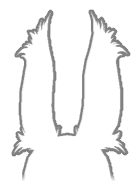
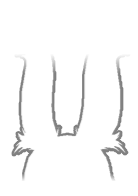
Fixed viera ears not fitting into window correctly, and cutting off the jaw bone

Changed region(s): [[0.6087, 0.0306, 0.9565, 0.3673], [0.087, 0.0306, 0.4058, 0.3673]]

diff --git a/Anamnesis/Posing/Views/PoseGUIView.xaml b/Anamnesis/Posing/Views/PoseGUIView.xaml
@@ -157,7 +157,7 @@
 				</Grid.RowDefinitions>
 
 				<!-- Viera Ears 01 -->
-				<Viewbox Grid.Row="0" Visibility="{Binding IsVieraEars01, Converter={StaticResource B2V}, FallbackValue=Collapsed}" Height="110">
+				<Viewbox Grid.Row="0" Visibility="{Binding IsVieraEars01, Converter={StaticResource B2V}, FallbackValue=Collapsed}" Height="120" Margin="0, -20, 0, -20">
 					<Canvas Width="138" Height="196">
 						<Image Canvas.Left="0" Canvas.Top="0" Width="138" Height="196" Source="../../Assets/PoseCharacterVieraEars01Background.png" Opacity="0.15" Stretch="Uniform" IsHitTestVisible="False"/>
 
@@ -191,7 +191,7 @@
 				</Viewbox>
 
 				<!-- Viera Ears 03 -->
-				<Viewbox Grid.Row="0" Width="150" Visibility="{Binding IsVieraEars03, Converter={StaticResource B2V}, FallbackValue=Visible}" Height="110">
+				<Viewbox Grid.Row="0" Width="150" Visibility="{Binding IsVieraEars03, Converter={StaticResource B2V}, FallbackValue=Visible}" Height="90">
 					<Canvas Width="256" Height="122" Margin="-50, 0, -50, 0">
 						<Image Canvas.Left="0" Canvas.Top="0" Width="256" Height="122" Source="../../Assets/PoseCharacterVieraEars03Background.png" Opacity="0.15" Stretch="Uniform" IsHitTestVisible="False"/>
 
@@ -209,7 +209,7 @@
 				</Viewbox>
 
 				<!-- Viera Ears 04 -->
-				<Viewbox Grid.Row="0" Visibility="{Binding IsVieraEars04, Converter={StaticResource B2V}, FallbackValue=Collapsed}" Height="110">
+				<Viewbox Grid.Row="0" Visibility="{Binding IsVieraEars04, Converter={StaticResource B2V}, FallbackValue=Collapsed}" Height="100">
 					<Canvas Width="163" Height="142" Margin="0, -32, 0, 32">
 						<Image Canvas.Left="0" Canvas.Top="0" Width="163" Height="232" Source="../../Assets/PoseCharacterVieraEars0204Background.png" Opacity="0.15" Stretch="Uniform" IsHitTestVisible="False"/>
 
